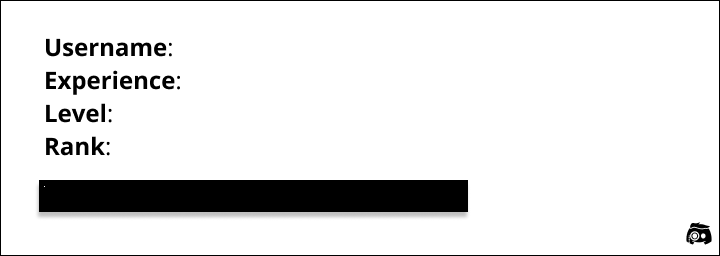
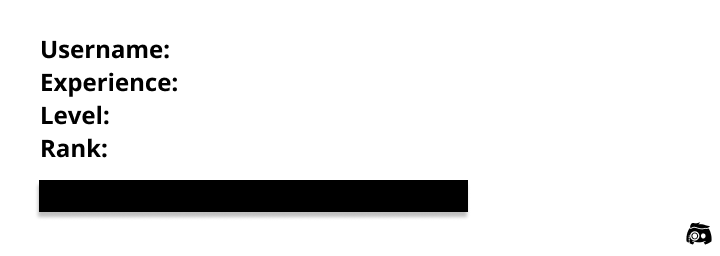
dark rankcard

diff --git a/cogs/Levels.py b/cogs/Levels.py
@@ -10,7 +10,7 @@ from io import BytesIO
 from typing import Union, Optional
 
 import disnake
-from PIL import Image, ImageDraw, ImageFont, ImageFilter
+from PIL import Image, ImageDraw, ImageFont, ImageFilter, ImageChops
 from cachetools import TTLCache
 from disnake import (
     Message,
@@ -317,7 +317,12 @@ class LevelsController:
             return record
 
     async def generate_image_card(
-        self, user: Member | Levels, rank: str, xp: int, lvl: int
+        self,
+        user: Member | Levels,
+        rank: str,
+        xp: int,
+        lvl: int,
+        theme: str = "light",
     ) -> Image:
         """generates an image card for the user"""
         avatar: disnake.Asset = user.display_avatar.with_size(512)
@@ -336,7 +341,10 @@ class LevelsController:
 
         with Image.open(card).convert("RGBA") as base:
             # make a blank image for the text, initialized to transparent text color
-            txt = Image.new("RGBA", base.size, (255, 255, 255, 0))
+            foreground = (0, 0, 0, 255)  # black
+            background = (255, 255, 255, 255)  # white
+            transparent = (255, 255, 255, 0)
+            txt = Image.new("RGBA", base.size, transparent)
 
             response = await self.bot.session.get(avatar.url)
             avatar_image_bytes = io.BytesIO(await response.read())
@@ -364,6 +372,7 @@ class LevelsController:
                 return result
 
             def roundify(im, rad):
+                mode = im.mode
                 circle = Image.new("L", (rad * 2, rad * 2), 0)
                 draw = ImageDraw.Draw(circle)
                 draw.ellipse((0, 0, rad * 2, rad * 2), fill=255)
@@ -377,7 +386,7 @@ class LevelsController:
                     (w - rad, h - rad),
                 )
                 im.putalpha(alpha)
-                return im
+                return im.convert(mode)
 
             # makes the avatar ROUND
             avatar_img = mask_circle_transparent(
@@ -389,18 +398,36 @@ class LevelsController:
             # get a drawing context
             d = ImageDraw.Draw(txt)
             # username
-            d.text((179, 32), str(user.name), font=fnt, fill=(0, 0, 0, 255))
+            d.text(
+                (179, 32),
+                str(user.name),
+                font=fnt,
+                fill=foreground,
+            )
             # xp
-            d.text((185, 65), f"{xp}/{next_xp}", font=fnt, fill=(0, 0, 0, 255))
+            d.text(
+                (185, 65),
+                f"{xp}/{next_xp}",
+                font=fnt,
+                fill=foreground,
+            )
             # level
-            d.text((115, 96), str(lvl), font=fnt, fill=(0, 0, 0, 255))
+            d.text((115, 96), str(lvl), font=fnt, fill=foreground)
             # Rank
-            d.text((113, 130), f"#{rank}", font=fnt, fill=(0, 0, 0, 255))
-            d.rectangle((44, 186, 44 + width, 186 + 21), fill=(255, 255, 255, 255))
-            txt.paste(avatar_img, (489, 23))
+            d.text(
+                (113, 130),
+                f"#{rank}",
+                font=fnt,
+                fill=foreground,
+            )
+            d.rectangle((44, 185, 44 + width, 185 + 21), fill=background)
 
             out = Image.alpha_composite(base, txt)
-            out = roundify(out, rad=14)
+            out = roundify(out.convert("RGB"), rad=14)
+            if theme == "dark":
+                out = ImageChops.invert(out)
+            out.paste(avatar_img, (489, 23), avatar_img)
+
             with BytesIO() as image_binary:
                 out.save(image_binary, "PNG")
                 image_binary.seek(0)
@@ -610,6 +637,11 @@ class Level(commands.Cog):
         self,
         inter: ApplicationCommandInteraction,
         user: Optional[Member] = None,
+        theme: Optional[str] = Param(
+            description="The theme of the rank card",
+            choices=["light", "dark"],
+            default="light",
+        ),
     ):
         """
         Get the rank of a user in the server or yourself if no user is specified
@@ -629,7 +661,7 @@ class Level(commands.Cog):
                 inter.guild.id, user_record, return_updated=True
             )
             image = await self.controller.generate_image_card(
-                user, rank, user_record.xp, user_record.level
+                user, rank, user_record.xp, user_record.level, theme
             )
             await inter.send(file=image)
         except UserNotFound:
